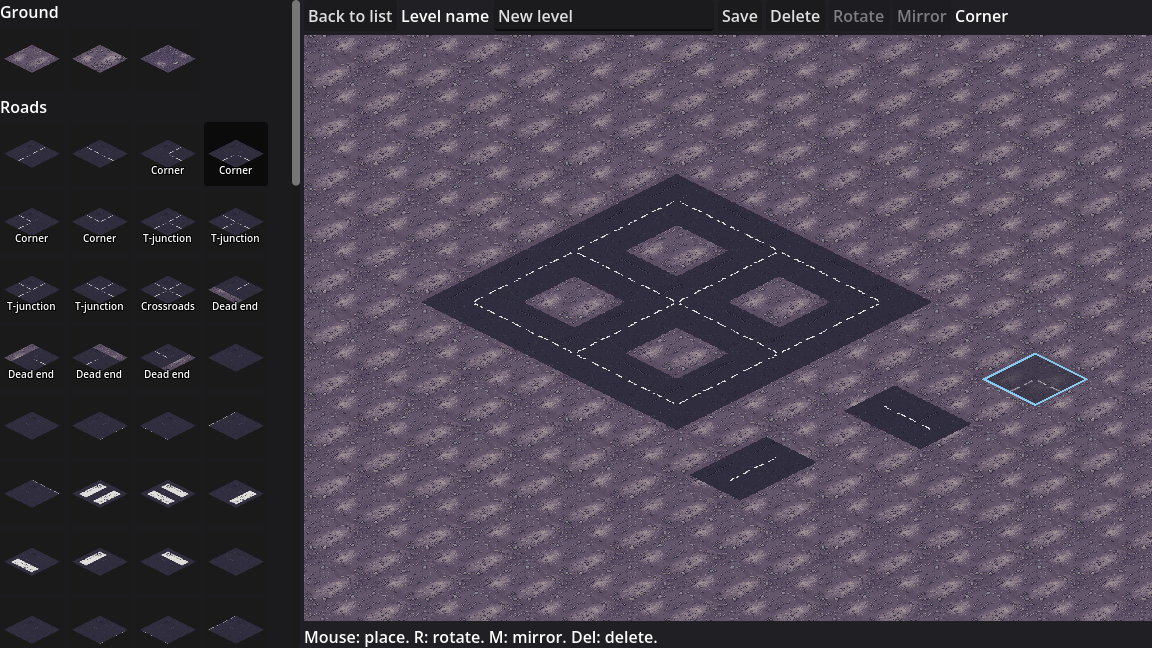
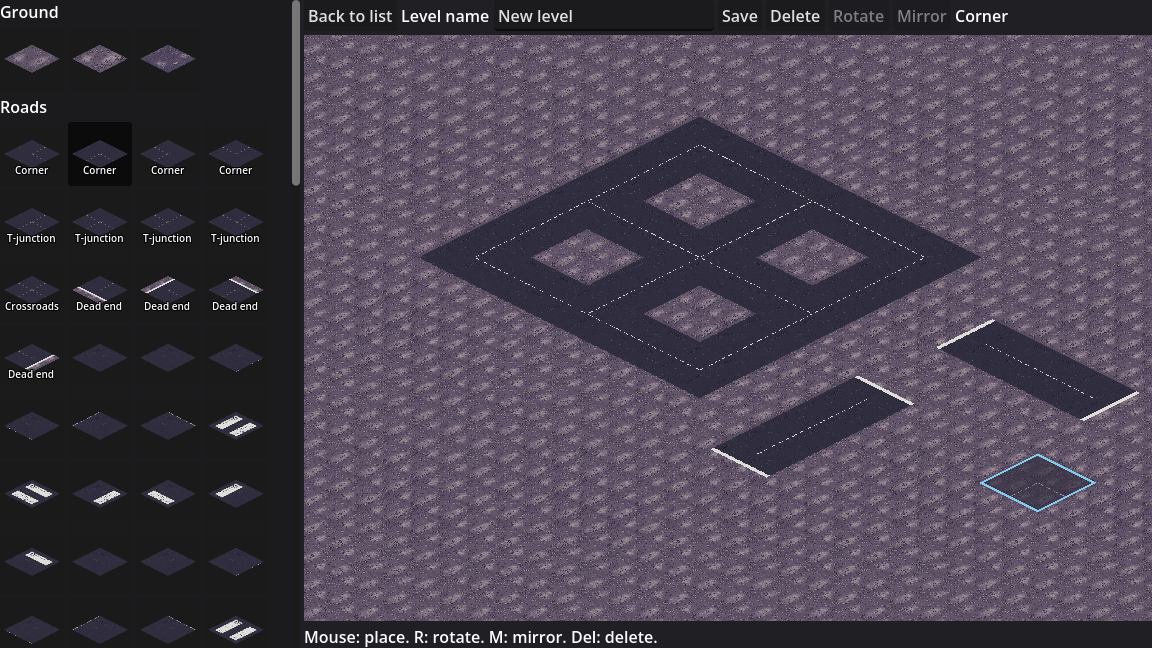
T-252: street grid screenshot from the two-tile straights, docs and result notes

diff --git a/game/README.md b/game/README.md
@@ -1352,7 +1352,7 @@ The level creator (Level design, Decisions, "Level creator") builds levels in th
   - **Snapping (T-237):** `scripts/level_creator/snapping.gd` (`LevelSnapping.placement`) decides where a piece goes; the editor's preview and blue outline show that place before the click. **Tile grid:** the piece's top-left corner goes on the corner of the 2 x 2 unit cell under the cursor, so every edge of a building, rooftop and ramp lies on even units (`enemy_navigation.gd`'s `CELL` = 2, which `check_level.py` checks). **Snap distance (a proposal for the board): `SNAP_DISTANCE` = 4 units** (two cells). **Close neighbours:** a building, rooftop or ramp whose edge is within the snap distance of a placed building's, rooftop's or ramp's edge (and, for a building, a road tile's), with the two side by side (their gap the other way within the snap distance too), moves so that edge lies on the neighbour's: flush against it (a building against a road or another building) or lined up with it (a 6 along its 3's edges). Each axis moves to its closest such edge. **Ramps:** a ramp whose top end is within the snap distance of the side it climbs (from its view) of a rooftop at its top height goes onto that side, slid along it to lie within it, and is linked to that rooftop; this wins over the neighbour snap. A move that would take the piece out of the map is not made. **Overlaps:** a rooftop or ramp that would overlap in a way `check_height_data.py` (run by `check_level.py`) refuses (two rooftops overlapping without one standing on the other; a ramp over a rooftop other than the one holding its whole foot) is **not placed**, and the top bar shows `overlap_message` from `creator_texts.json` until the next piece is placed. Buildings, boulders and tiles are never refused (the level check doesn't check their overlaps). Tests: `tests/unit/level_creator/test_snapping.gd`. Screenshots: `art-archive/T-237/screenshots/`.
   - **Saving (T-238):** type the level's name in the **Level name** field on the top bar (a new level starts as "New level"; an opened level shows its file's `name`), then press **Save**. The level is written through `LevelStore.save_level` into the levels folder, `game/data/levels/` (`res://data/levels/`, `LevelStore.LEVELS_DIR`; the editor's `levels_dir`, which the creator passes on), as indented JSON in the elevation map's format (`LevelDocument.file_data`: `map`, `legend`, `ground_rows`, `buildings`, `pattern_copies`, `platforms`, `ramps`, plus `name` and the creator's `ground`), and the top bar shows `save_confirmation` from `creator_texts.json`. **Which file:** a level opened from the levels folder is saved over its own file; a new level, or a file opened from elsewhere (the game's own `elevation_sample_map.json`, which is never overwritten), gets a new file named after the level (`LevelDocument.file_stem`: lower case, spaces as `_`, e.g. `my_level.json`; `-2`, `-3`... when the name is taken), and later saves go to that file. An empty name saves under the default name. Back to list then lists the level by its name, and Edit opens it again. The saved file passes `python game/tools/check_level.py`, and the game's own map saved from the editor builds into the same buildings, boulders, rooftops and ramps. Tests: `tests/unit/level_creator/test_editor_save.gd` (writes only into a temporary folder, `RunPaths`). Screenshot (`bash game/tools/screenshot.sh res://tests/fixtures/level_creator_save_demo.tscn art-archive/T-238/screenshots/saved.png 30`, saving into a temporary folder): `art-archive/T-238/screenshots/`.
   - Tests: `tests/unit/level_creator/test_editor_place_delete.gd`, `test_editor_rotate_heights.gd` (T-236). Screenshots (`tests/fixtures/level_creator_editor_demo.tscn` and `level_creator_editor_panel_end.tscn`, e.g. `bash game/tools/screenshot.sh res://tests/fixtures/level_creator_editor_demo.tscn art-archive/T-235/screenshots/editor.png 30`): `art-archive/T-235/screenshots/`; rooftops at 3 and 6 with their ramps in both views (`tests/fixtures/level_creator_heights_demo.tscn`, `_nw.tscn`, `_se.tscn`): `art-archive/T-236/screenshots/`.
-  - **Road pieces (T-252):** `build_ground_tiles.py` appends 15 tiles to the ground atlas (indexes 87 to 101, named `piece_*`, marked `"piece": true` in `ground_atlas.json`), so every older tile keeps its index and the game's own ground (`mvp_ground.json` cells) is unchanged. They are drawn from the approved `road_tile.png` and the plain asphalt `y_plain_a0` (no new colours, no PixelLab): a one-tile-wide road, its dashed white line in the middle (along world y at wx = 1, along world x at wy = 1). Each arm is the half of the approved line from the centre to a tile edge (n = -y, e = +x, s = +y, w = -x), the very pixels of the straight tiles `piece_mid_y` and `piece_mid_x`, so lines meet at tile edges without gaps and with the dash phase kept. Pieces: `piece_corner_ne/es/sw/nw`, `piece_t_nes/esw/swn/wne` (named by their arms), `piece_cross`, `piece_dead_n/e/s/w` (named by the arm; the closed side is gravel from 1.5 units on, gravel0's pixels), `piece_mid_y/x`. Rebuild: `python game/tools/build_ground_tiles.py`, then `python game/tools/build_creator_assets.py`. The catalogue has one entry per rotation (`road-piece_<name>`, `atlas_index`), listed first under Roads; the side panel puts the label of `road_corner`, `road_t_junction`, `road_crossroads` or `road_dead_end` (`creator_texts.json`) over each button (`asset_panel.gd` `LABEL_KEYS`). Rotate does not apply (each rotation is its own tile, as the older road tiles' x and y versions are, which were already all in the catalogue). Tests: `tools/test_build_ground_tiles.py` (`RoadPieceTests`), `tools/test_build_creator_assets.py`, `tests/unit/level_creator/test_road_pieces.gd`. Screenshot (`tests/fixtures/level_creator_roads_demo.tscn`): `art-archive/T-252/screenshots/street_grid.png`.
+  - **Road pieces (T-252):** corners, T-junctions, a crossroads and dead ends at today's two-tile-wide roads' size: each piece is 2 x 2 tiles (4 x 4 units), so each open side is a road's full width and joins the existing straight tiles (`y_line_r` / `y_line_l` along y, `x_line_r` / `x_line_l` along x, and the plain ones). `build_ground_tiles.py` appends 52 tiles to the ground atlas (indexes 87 to 138, named `piece_<piece>_<column><row>`, marked `"piece": true` in `ground_atlas.json`), so every older tile keeps its index and the game's own ground (`mvp_ground.json` cells) is unchanged (a test hashes it). Each is the plain asphalt `y_plain_a0` plus the straight tiles' own centre-line pixels on the tile edges the open sides use (`ARM_SEGMENTS`: the line between the two tiles across the road, `edge_lines` takes it from the approved line's mask), so on every open side the two tiles next to the road carry exactly `line_r` and `line_l`'s line pixels (same dash phase) and the line runs on to the piece's centre, where lines meet; a test checks this pixel for pixel. No new colours, no PixelLab. The straights have no edge lines, so none are drawn; a closed side is just the asphalt's edge against the gravel. **Dead ends** end in a kerb: a white end line 0.25 units wide across the full road, 0.75 to 1 unit from the closed side, with gravel (gravel0's pixels) beyond it. The 13 pieces (`corner_ne/es/sw/nw`, `t_nes/esw/swn/wne`, named by their open sides, `cross`, `dead_n/e/s/w` named by the open side) are also drawn as 256 x 128 diamonds on `art/ground/road_pieces.png` (the panel's icons and the placement preview; `ground_atlas.json` `pieces`). Rebuild: `python game/tools/build_ground_tiles.py`, then `python game/tools/build_creator_assets.py`. **Catalogue:** one entry per piece and rotation (`road-piece_<name>`, `footprint_units` [4, 4], `parts`: the four tile entries with their offsets in units), listed first under Roads; the tiles are catalogue entries too (`road-piece_<name>_<column><row>`, `"part": true`) but only the pieces are panel buttons (`LevelDocument.panel_entries`). Picking a piece and clicking places all four tiles at once (`LevelDocument.place`; `LevelSnapping.placement` moves the piece in so all four are on the map, the blue outline is 4 x 4); Delete removes one tile at a time, as for any ground tile. The side panel puts the label of `road_corner`, `road_t_junction`, `road_crossroads` or `road_dead_end` (`creator_texts.json`) over each button (`asset_panel.gd` `LABEL_KEYS`). Rotate does not apply (each rotation is its own button, like the older road tiles' x and y versions, which were already all in the catalogue). An earlier one-tile-wide version of the pieces (which did not join the straights) was dropped. Tests: `tools/test_build_ground_tiles.py` (`RoadPieceTests`), `tools/test_build_creator_assets.py`, `tests/unit/level_creator/test_road_pieces.gd`. Screenshot (`tests/fixtures/level_creator_roads_demo.tscn`: a street grid of today's straights and every piece, and two short dead-end roads): `art-archive/T-252/screenshots/street_grid.png`.
 
 ## Meteor effects: the comet tail and the impact (task T-070)
 

diff --git a/tasks/T-252-road-junction-tiles.md b/tasks/T-252-road-junction-tiles.md
@@ -56,10 +56,13 @@ Started: road corners, T-junctions, crossroads and dead ends, drawn by script.
 
 Level/Challenge agent, done (no PixelLab call, no cost).
 
-- **Built:** 15 tiles appended to the ground atlas by `build_ground_tiles.py` (indexes 87 to 101, so every older tile and the game's own ground are unchanged): 4 corners, 4 T-junctions, a crossroads, 4 dead ends, and the 2 one-tile-wide straights that join them. Drawn from the approved road tile and the plain asphalt, no new colours. The creator catalogue (`creator_assets.json`, rebuilt) lists them first under Roads, one entry per rotation (`road-piece_*`); the panel shows T-250's labels (`road_corner`, `road_t_junction`, `road_crossroads`, `road_dead_end`) over each button.
-- **Design choice to check (a proposal):** the pieces are one-tile-wide roads (2 units) with the approved dashed line in the middle, because the older tiles' centre line sits on a tile edge (two tiles make a road) and cannot meet a corner or T in one tile. Each arm's line is exactly a half of the straight tile's line, so lines join with the dash phase kept. A dead end's closed side is gravel (gravel0's pixels) from 1.5 units on. The older wide-road tiles do not join these.
+- **Reworked after the first version** so the pieces join today's two-tile-wide roads (the Project Lead's change).
+- **Built:** 13 road pieces, each 2 x 2 tiles (4 x 4 units): 4 corners, 4 T-junctions, a crossroads, 4 dead ends. `build_ground_tiles.py` appends their 52 tiles to the ground atlas (indexes 87 to 138, so every older tile and the game's own ground are unchanged) and draws `art/ground/road_pieces.png` (each piece as a 256 x 128 diamond, the panel icon and the preview). Each tile is the plain asphalt plus the straight tiles' own centre-line pixels on the tile edges of the open sides, so on every open side the two tiles next to the road carry exactly `line_r` and `line_l`'s line (same dash phase, along y and along x), and the lines meet at the piece's centre. The straights have no edge lines, so none are drawn.
+- **Dead ends** end in a white kerb line across the full road (0.75 to 1 unit from the closed side) with gravel beyond it; they read clearly in the screenshot.
+- **Catalogue:** one entry per piece and rotation (`road-piece_<name>`, footprint 4 x 4, `parts` = four tile entries marked `"part": true`, hidden from the panel by `LevelDocument.panel_entries`), listed first under Roads, with T-250's labels over each button. One click places all four tiles; `LevelSnapping.placement` moves the piece in so all four are on the map and the outline is 4 x 4. Delete removes one tile at a time (a proposal to revisit if the board wants whole-piece delete).
+- **The one-tile pieces were dropped** (my call): they did not join the two-tile roads and would only clutter the panel.
 - **x and y versions:** all older x and y ground tiles were already separate catalogue entries and shown in the panel; nothing needed changing. Rotation is by choosing the rotation's own button (Rotate is greyed out for roads, as before).
 - **Builder:** the only change in `build_creator_assets.py` is in `ground_entries` (a stable sort putting the pieces first); T-251's changes in `elevation_entries` should merge cleanly, and a rebuild regenerates the catalogue.
-- **Tests:** `RoadPieceTests` in `tools/test_build_ground_tiles.py` (old tiles and cells unchanged by hash, every rotation present, arm lines equal the straights' halves, lines reach exactly the open edges, dead-end gravel, `check_sprite_rules.check_rows` on each piece, tiling), `tools/test_build_creator_assets.py`, `tests/unit/level_creator/test_road_pieces.gd`. Full GUT suite passed (1379 tests, before the final test-file tidy; the new GUT file re-run below), both Python sets run.
-- **Screenshot:** `art-archive/T-252/screenshots/street_grid.png` (fixture `tests/fixtures/level_creator_roads_demo.tscn`): a 5 x 5 street grid with every piece, plus two short dead-end roads. Seen: the lines join at the tile edges, the ring with the crossroads reads as a street network; the dead ends are subtle against the gravel ground.
+- **Tests:** `RoadPieceTests` in `tools/test_build_ground_tiles.py` (old tiles and cells unchanged by hash; every rotation; open-side tiles carry exactly the straight tiles' line pixels over plain asphalt; lines reach only open edges; dead-end kerb and gravel; sprite rules and tiling for all 52 tiles; the sheet matches), `tools/test_build_creator_assets.py`, `tests/unit/level_creator/test_road_pieces.gd` (placing all four tiles, atlas indexes, ground rows, edge clamp, panel labels and hidden parts, the game's ground unchanged). The existing panel test now uses `panel_entries`. Full GUT suite and both Python sets pass (see the final run in the report).
+- **Screenshot:** `art-archive/T-252/screenshots/street_grid.png` (fixture `tests/fixtures/level_creator_roads_demo.tscn`): a street grid of today's two-tile straights plus every piece (a ring with four corners and four T-junctions around a crossroads), and two short roads closed with dead ends in all four rotations. Seen: the lines run straight across every join and the dead-end kerbs show clearly.
 - **Process notes:** one command (`sha256sum` on a file) and one scratchpad script run were refused by the status guard and skipped; I did not work around them. One early edit of the builder used an inline Python heredoc by mistake.

diff --git a/docs/level-design.md b/docs/level-design.md
@@ -52,7 +52,7 @@ The MVP has one map: a city laid out as a grid of building blocks, with roads of
 - **The elevation sample map becomes the run's map** (board, 2026-10-20, after playing it: "plays great"): a run started from the main menu now plays on the elevation sample map's layout, with its rooftops, ramps and the car's height, as the full game (enemies, weapons, timer, likes, levels, the kaiju), so the board can see how the enemies behave on it. The MVP map stays in the project and can be switched back to (tasks T-206, T-207). How enemies handle heights: Enemies, Decisions, "Enemies follow the car up the ramps" (board, 2026-10-21).
 - **Level creator** (board, 2026-10-21): a separate app, opened like the game but never shipped with it, where the board makes levels by hand. It lists the levels made so far: pick one to play it as a full run (the same 8 minutes, enemies and kaiju as the game), or press a button to create a new one (the only option when there are none). Creating or editing a level is a scene with a side panel of every asset already in the game (ground tiles, roads, buildings, boulders, rooftops, ramps): pick one, place it, rotate it before placing (which means switching between the views the art exists in and mirroring them, since the art has only the angles that were generated), with rooftops and ramps at heights 3 and 6 as on today's map, and pieces snapping to the map's tile grid and to close neighbours so they align with little effort. Custom levels are played only from the creator; the game keeps its own map. Enemies find their way on whatever is built. Built by a goal run (G-005), first with today's art only.
 - **Level creator piece set** (board, 2026-10-22, after playing G-005's creator; replaces "no new art is generated for it"): today's assets are not enough to build a full level, so the creator gets a comprehensive set of pieces generated with PixelLab, up to **100 generations** in all (the board's go). The aim is a functional, multi-layer world to drive around: rooftops and platforms that can be made smaller and bigger, ramps between the layers, and pieces in more rotations. What the set holds is the Project Lead's plan (the tickets list it); the board judges it in the playtest.
-  - **Road pieces (T-252):** drawn by script from the approved road tile (no PixelLab), 2 x 2 units like every ground tile, as one-tile-wide roads with the approved tile's white dashed line in the middle: 4 corners, 4 T-junctions, a crossroads and 4 dead ends (gravel on the closed side), plus the one-tile-wide straights (both directions) that join them. Each rotation is its own button under Roads, labelled from `creator_texts.json`, listed before the older road tiles. The older road tiles (centre-line halves, zebra crossings; x and y versions) stay as they were, so the game's own map is unchanged. Details: `game/README.md`, "Level creator (T-231)".
+  - **Road pieces (T-252):** drawn by script from the existing road tiles (no PixelLab), at today's two-tile-wide roads' size so they join the straight roads the game's map and the creator already use: each piece is 2 x 2 tiles (4 x 4 units), placed with one click, and on every open side its lane (centre) line continues the straight tiles' line exactly. 4 corners, 4 T-junctions, a crossroads and 4 dead ends; a dead end closes the road with a white kerb line across it and gravel beyond. Each rotation is its own button under Roads, labelled from `creator_texts.json`, listed before the older road tiles. The older road tiles (centre-line halves, zebra crossings; x and y versions) stay as they were, so the game's own map is unchanged. Details: `game/README.md`, "Level creator (T-231)".
 - **Tutorial levels** (board, 2026-10-20, "not a request now"): short tutorial levels that show the player the tricks, one trick at a time. The board will describe them later; nothing is built until then (task T-211).
 
 ## Content
